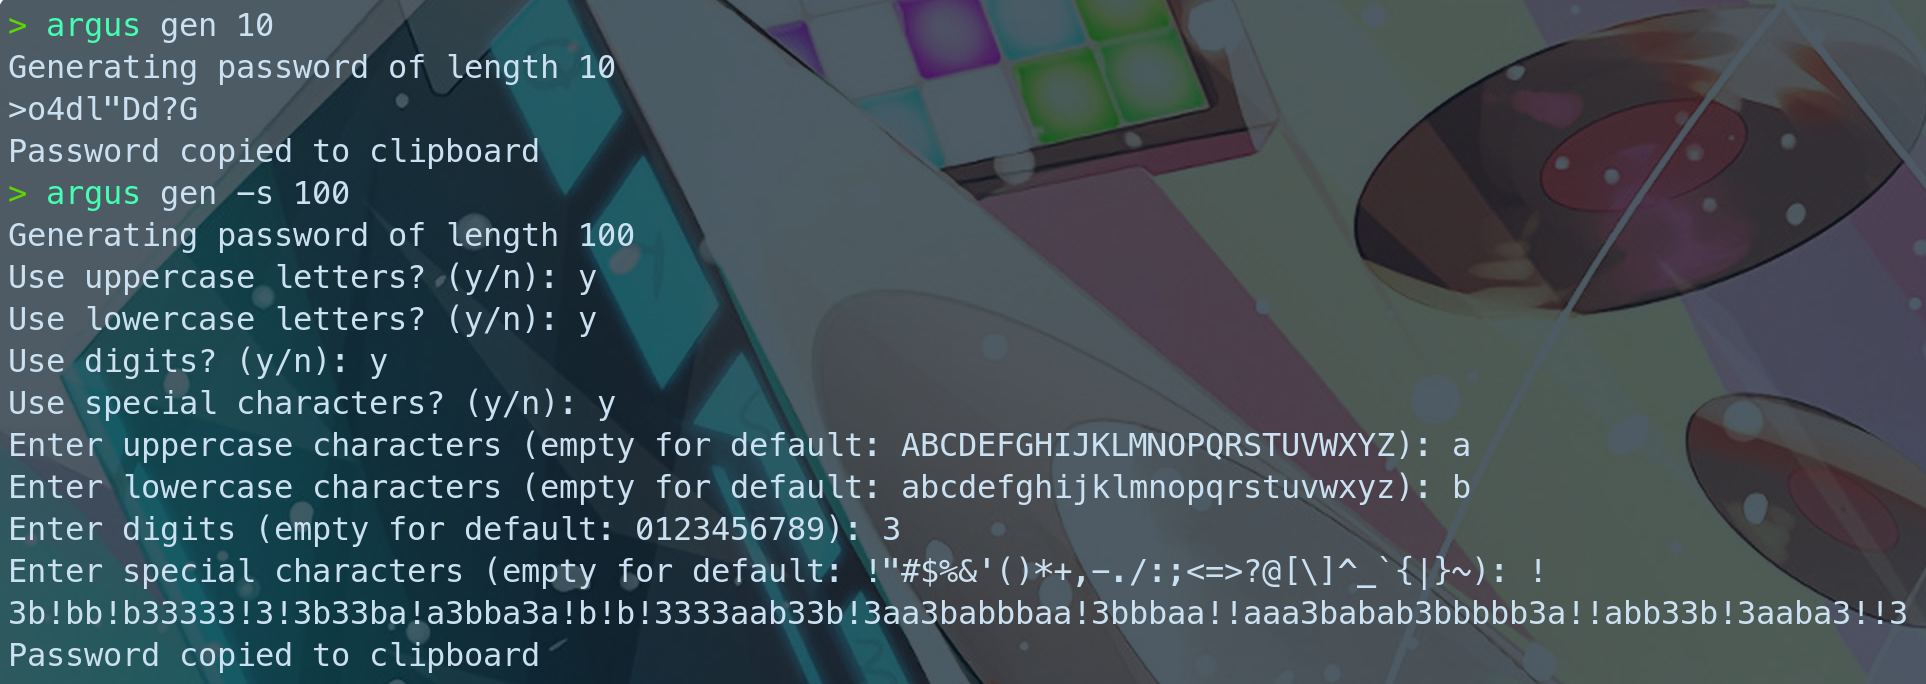
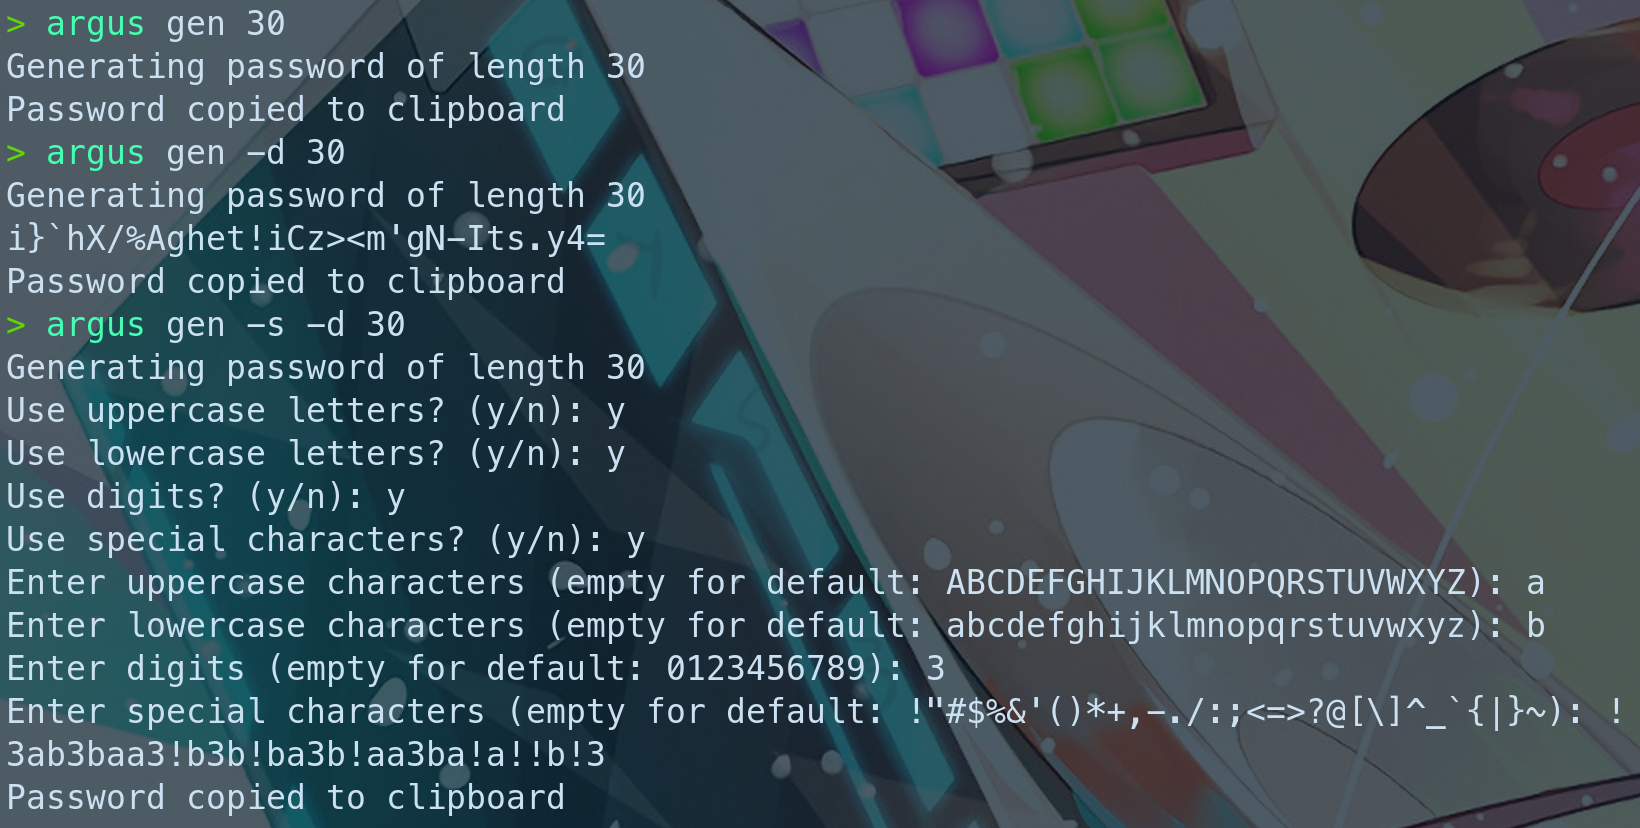
added -d flag

diff --git a/src/main.rs b/src/main.rs
@@ -14,7 +14,11 @@ fn main() {
     let cli = Cli::parse();
 
     match &cli.command {
-        Commands::Gen { length, setup } => {
+        Commands::Gen {
+            length,
+            setup,
+            display,
+        } => {
             println!("Generating password of length {}", length);
 
             // -- load config
@@ -26,7 +30,9 @@ fn main() {
             // -- gen pw
             let pw = generate_password(config, *length);
 
-            println!("{}", pw);
+            if *display {
+                println!("{}", pw);
+            }
 
             // Set the contents of the clipboard.
             set_contents(pw.to_owned()).expect("Failed copying to clipboard!");

diff --git a/src/cli.rs b/src/cli.rs
@@ -17,7 +17,15 @@ pub enum Commands {
     // -- Generates password of length.
     Gen {
         length: u32,
-        #[arg(short, long)]
+
+        #[arg(
+            short,
+            long,
+            help = "Additionally sets up character sets for generation"
+        )]
         setup: bool,
+
+        #[arg(short, long, help = "Displays the generated password in console")]
+        display: bool,
     },
 }

diff --git a/README.md b/README.md
@@ -10,5 +10,6 @@ Arguments:
 <LENGTH>
 
 Options:
--s, --setup
+-s, --setup Additionally sets up character sets for generation
+-d, --display Displays the generated password in console
 -h, --help Print help
